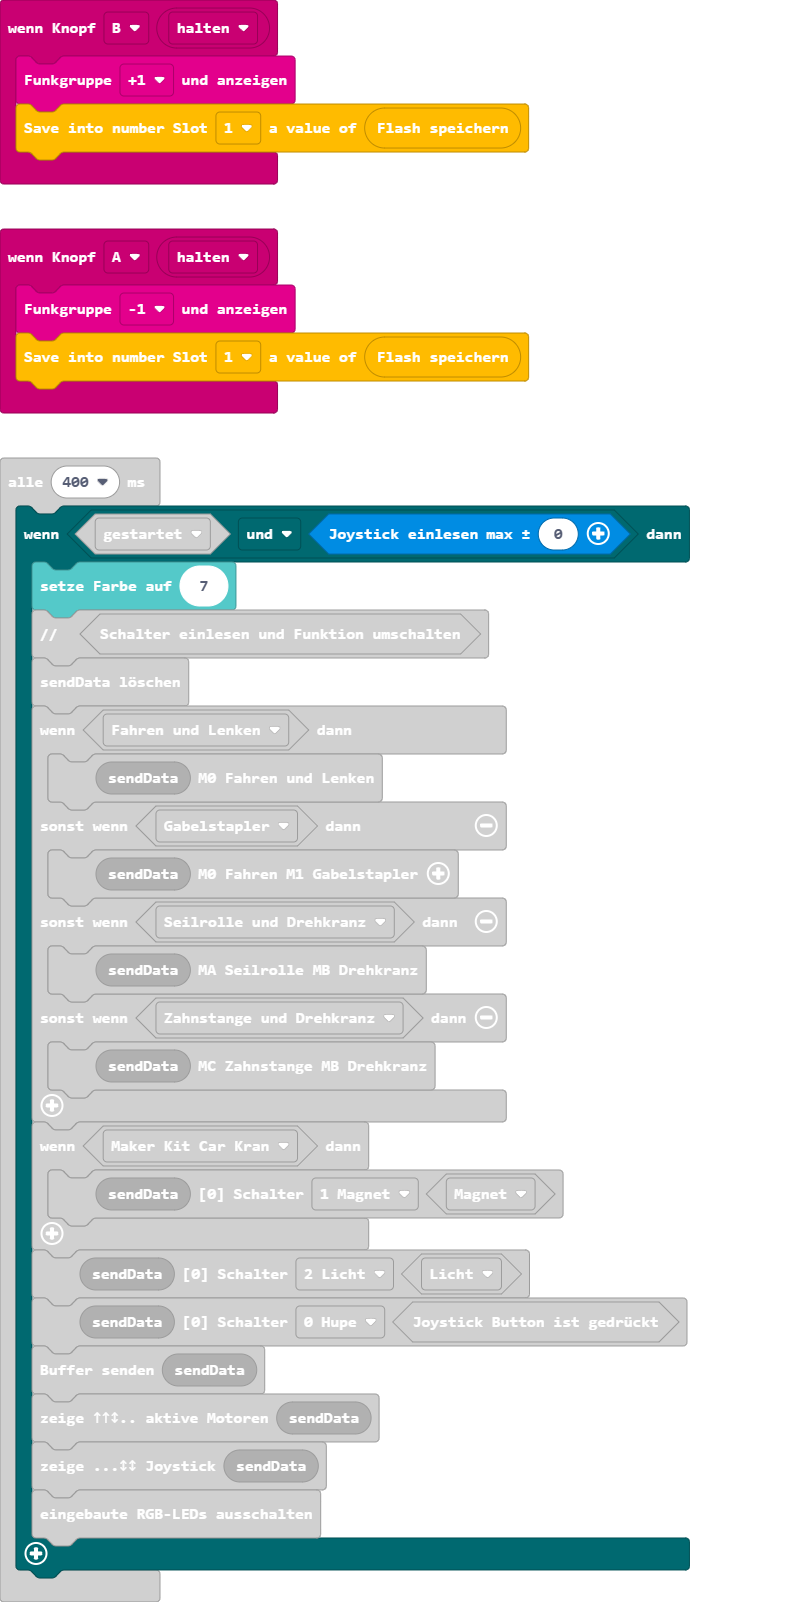
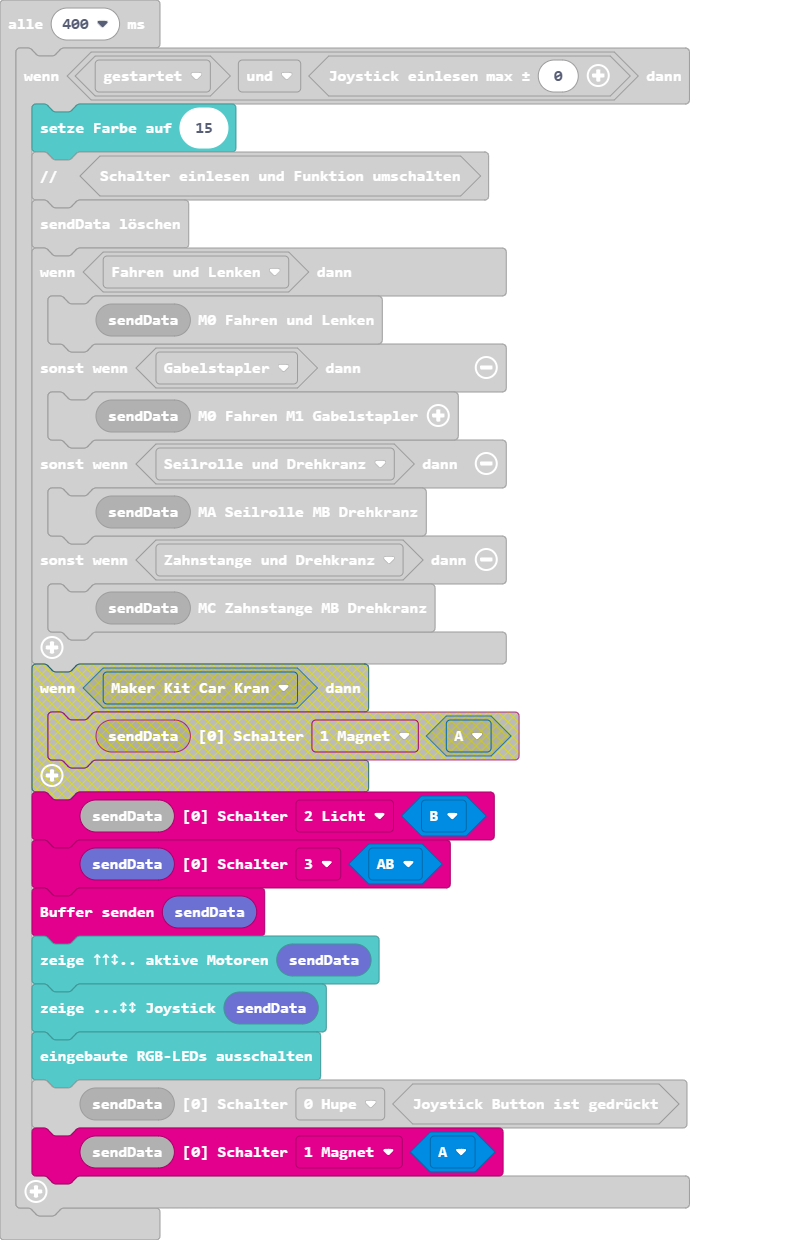
Aktualisiere pxt.json, main.blocks, main.ts

diff --git a/main.ts b/main.ts
@@ -24,7 +24,7 @@ sender.beimStart(storage.getNumber(StorageSlots.s1))
 storage.putNumber(StorageSlots.s1, radio.storageBufferGet())
 loops.everyInterval(400, function () {
     if (sender.isFunktion(sender.eFunktion.ng) && sender.joystickQwiic()) {
-        basic.setLedColor(7)
+        basic.setLedColor(15)
         radio.comment(sender.multiswitchGrove())
         radio.fill_sendBuffer19()
         if (sender.isFunktion(sender.eFunktion.m0_s0)) {
@@ -36,11 +36,10 @@ loops.everyInterval(400, function () {
         } else if (sender.isFunktion(sender.eFunktion.mc_mb)) {
             sender.sendMCB(radio.radio_sendBuffer19())
         }
-        if (sender.isModell(sender.eModell.mkck)) {
-            radio.setSchalter(radio.radio_sendBuffer19(), radio.e0Schalter.b1, sender.getSchalter(sender.eSchalter.Magnet))
-        }
-        radio.setSchalter(radio.radio_sendBuffer19(), radio.e0Schalter.b2, sender.getSchalter(sender.eSchalter.Licht))
         radio.setSchalter(radio.radio_sendBuffer19(), radio.e0Schalter.b0, sender.joystickButtonPosition())
+        radio.setSchalter(radio.radio_sendBuffer19(), radio.e0Schalter.b1, sender.getSchalter(sender.eSchalter.A))
+        radio.setSchalter(radio.radio_sendBuffer19(), radio.e0Schalter.b2, sender.getSchalter(sender.eSchalter.B))
+        radio.setSchalter(radio.radio_sendBuffer19(), radio.e0Schalter.b3, sender.getSchalter(sender.eSchalter.AB))
         radio.sendData(radio.radio_sendBuffer19())
         radio.zeige5x5Buffer(radio.radio_sendBuffer19())
         radio.zeige5x5Joystick(radio.radio_sendBuffer19())
